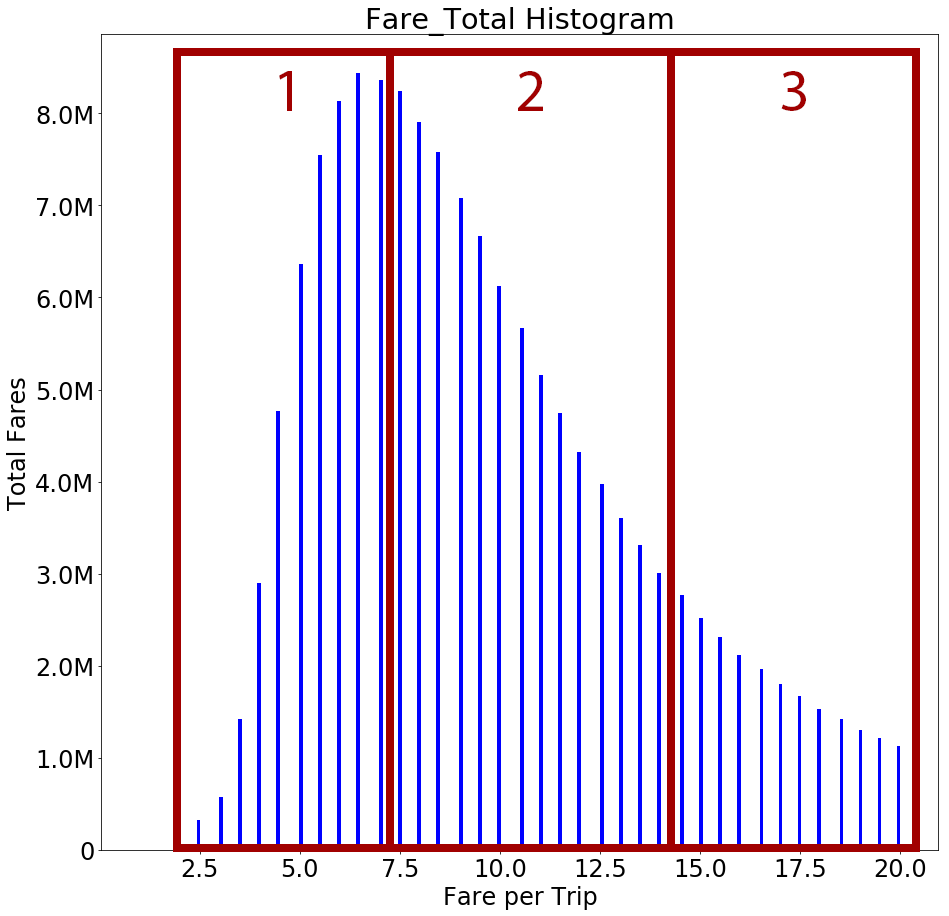
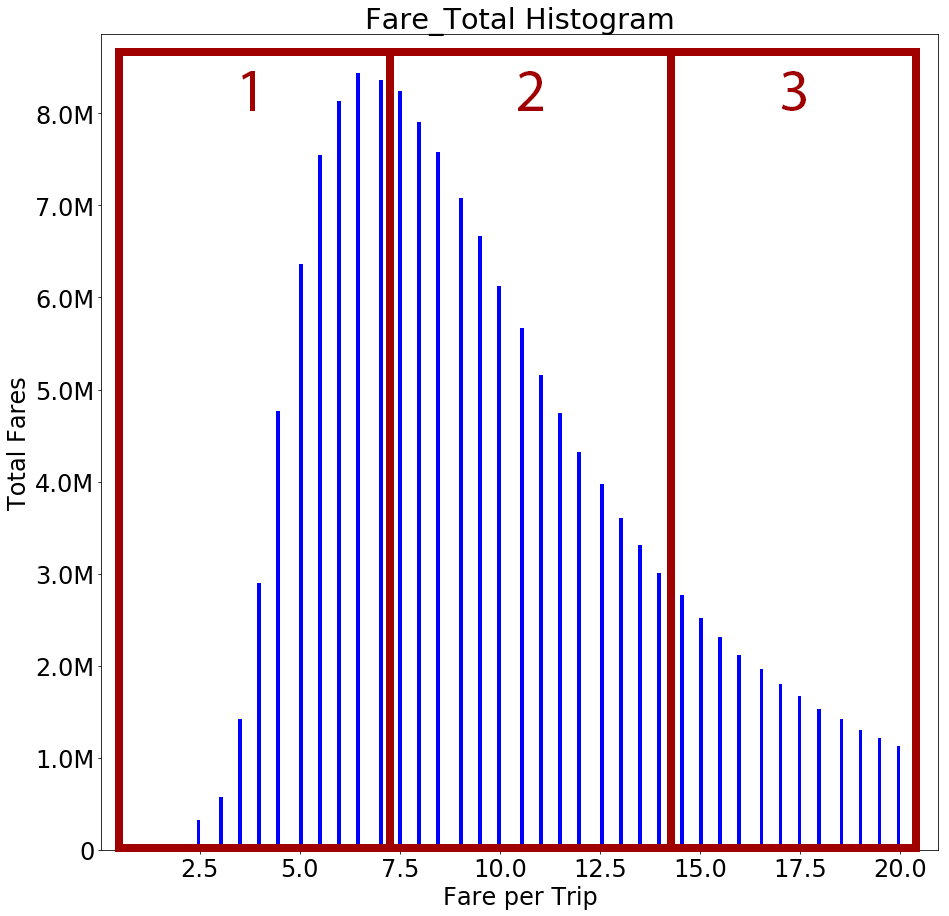
Update the image of the sampled fars and its caption.

Changed region(s): [[0.1222, 0.0306, 0.1834, 0.9476], [0.1834, 0.0611, 0.2139, 0.917], [0.2445, 0.0611, 0.275, 0.1223]]

diff --git a/report/taxi-report.tex b/report/taxi-report.tex
@@ -167,7 +167,7 @@ The sampling of the fares has been introduced to circumvent that issue. In a sim
 \begin{figure}
   \centering
   \includegraphics[width=0.6\textwidth]{images/distribution-fares-sampled.png}
-  \caption{The sampled distribution of fares.}
+  \caption{The sampled distribution of fares using three groups.}
   \label{fig:distribution-fares-sampled}
 \end{figure}
 
